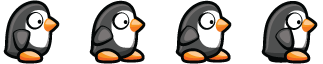
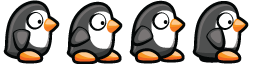
tux is walking now

diff --git a/static/js/script.js b/static/js/script.js
@@ -5,11 +5,12 @@ const CANVAS_HEIGHT = canvas.heigh = 600;
 
 const playerImage = new Image();
 playerImage.src = ('static/animations/penguin/penguin_walk.png');
-const spriteWidth = 69;
+const spriteWidth = 63.2;
 const spriteHeight = 64;
 let frameX = 0;
 let frameY = 0;
-
+let gameFrame = 0;
+const staggerFrames = 4;
 
 
 
@@ -17,8 +18,11 @@ function animate(){
     ctx.clearRect(0,0, canvas.width, canvas.heigh);
     // ctx.fillRect(100,50,100,100);
     ctx.drawImage(playerImage, frameX * spriteWidth, frameY * spriteHeight, spriteWidth, spriteHeight, 0 ,0, spriteWidth, spriteHeight);
-    if (frameX < 4) frameX++;
-    else frameX = 0;
+   if (gameFrame % staggerFrames == 0){
+       if (frameX < 3) frameX++;
+       else frameX = 0;
+   }
+   gameFrame++;
     requestAnimationFrame(animate);
 }
 animate();
